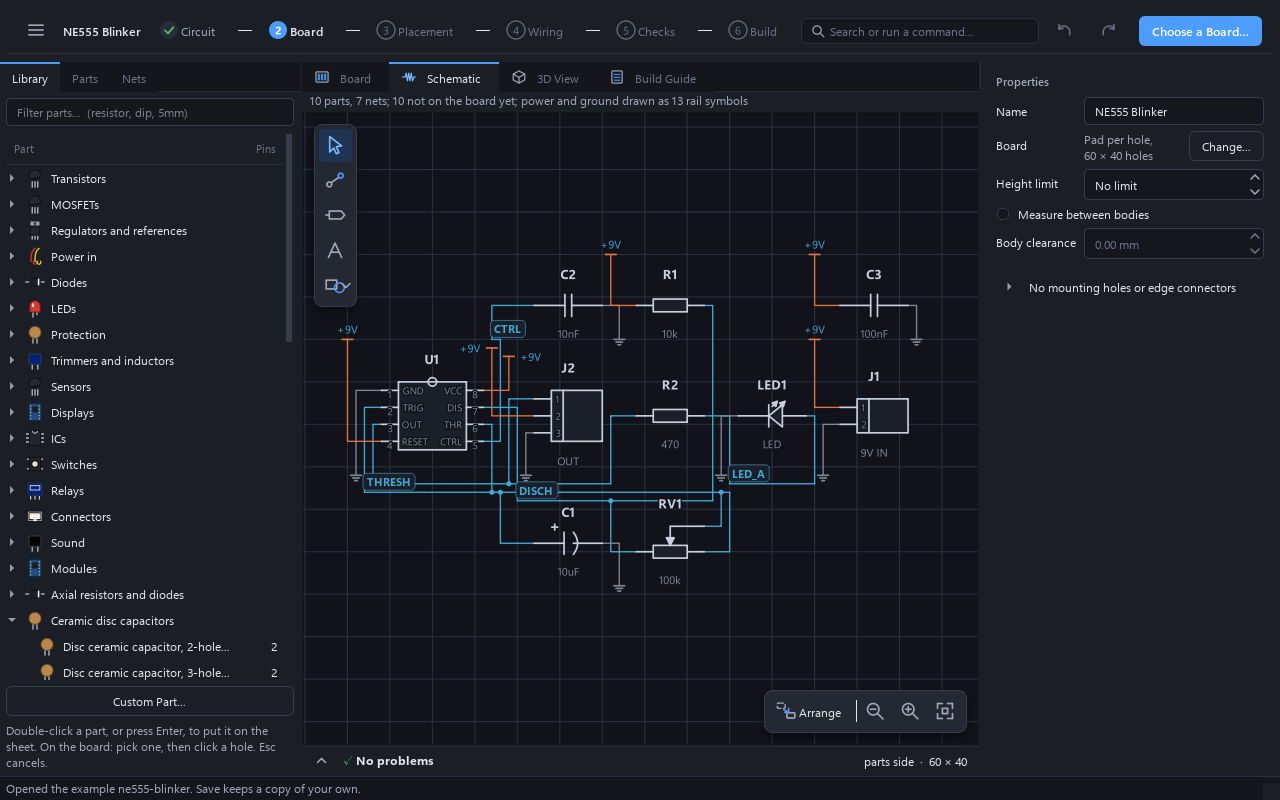
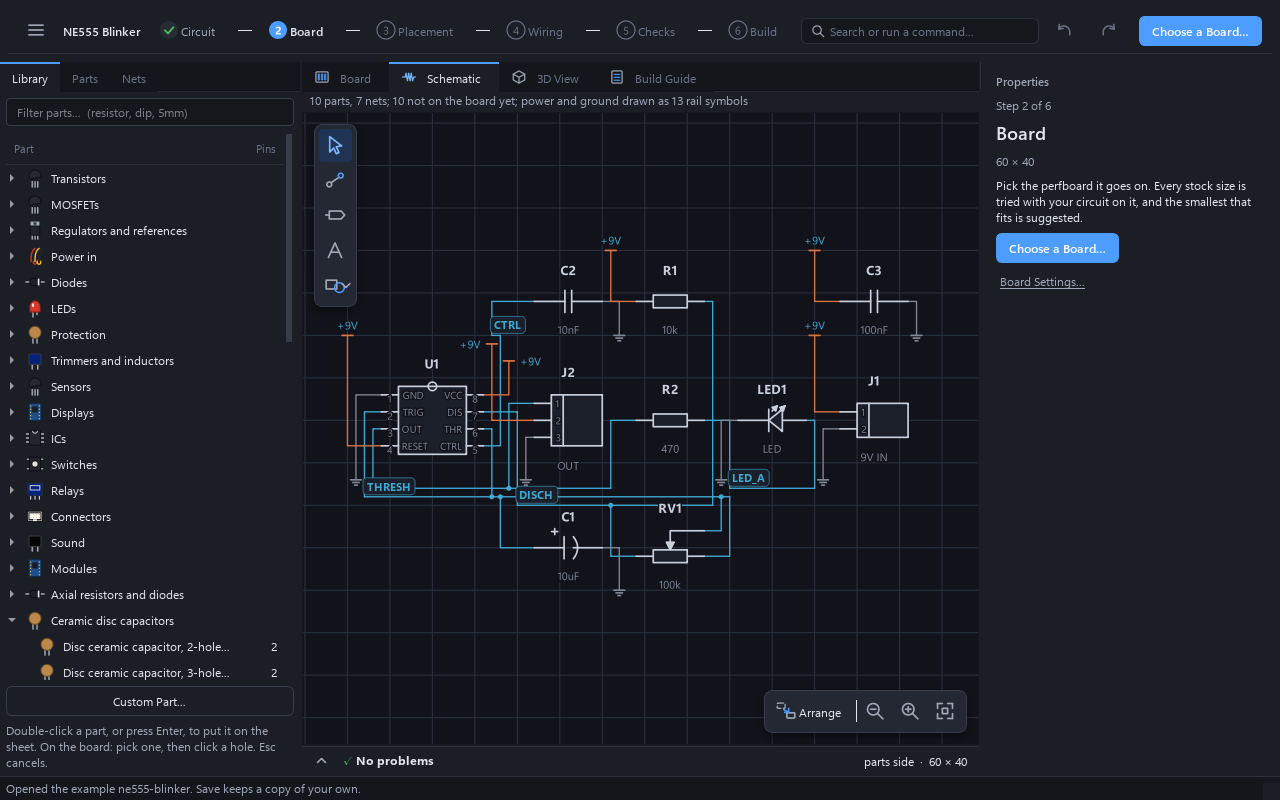
FIRST_BOARD stills and text from the 0.24 window: the step card in Properties, the one-line board question

diff --git a/docs/FIRST_BOARD.md b/docs/FIRST_BOARD.md
@@ -42,17 +42,19 @@ drawn and not built". It opens as an untitled copy, so nothing you do touches th
 
 What opens is the circuit: ten parts and seven nets, drawn on the schematic, and none of it
 on a board. The step bar along the top says where you stand (Circuit is done, Board is next),
-and the button at its right end is the next thing to do. You press that button for every
-step below.
+and the button at its right end is the next thing to do. Properties, with nothing selected,
+is a card for the same step: where the work stands, what to do now and a button for it. You
+press that button for every step below.
 
 ## 3. Choose the board
 
 ![The board dialog: every stock size the circuit was tried on, with how well it builds on each](images/first-board/3-board.png)
 
-**Choose a Board…** does not ask you to guess. It places and wires the circuit on a roomy
-board, then on each smaller stock size, and shows each result with its size in holes and
-what the wiring cost against the roomy one. The smallest board that builds as well is
-suggested. Pick one (this page picks 5 × 7 cm) and press **Use This Board**.
+**Choose a Board…** does not ask you to guess: "We picked the smallest stock board your parts
+fit on. Pick another if you have one." It places and wires the circuit on a roomy board, then
+on each smaller stock size, and shows each result with its size in holes and what the wiring
+cost against the roomy one; the suggested board is starred. Pick one (this page picks
+5 × 7 cm) and press **Use This Board**.
 
 ## 4. Place the parts
 
